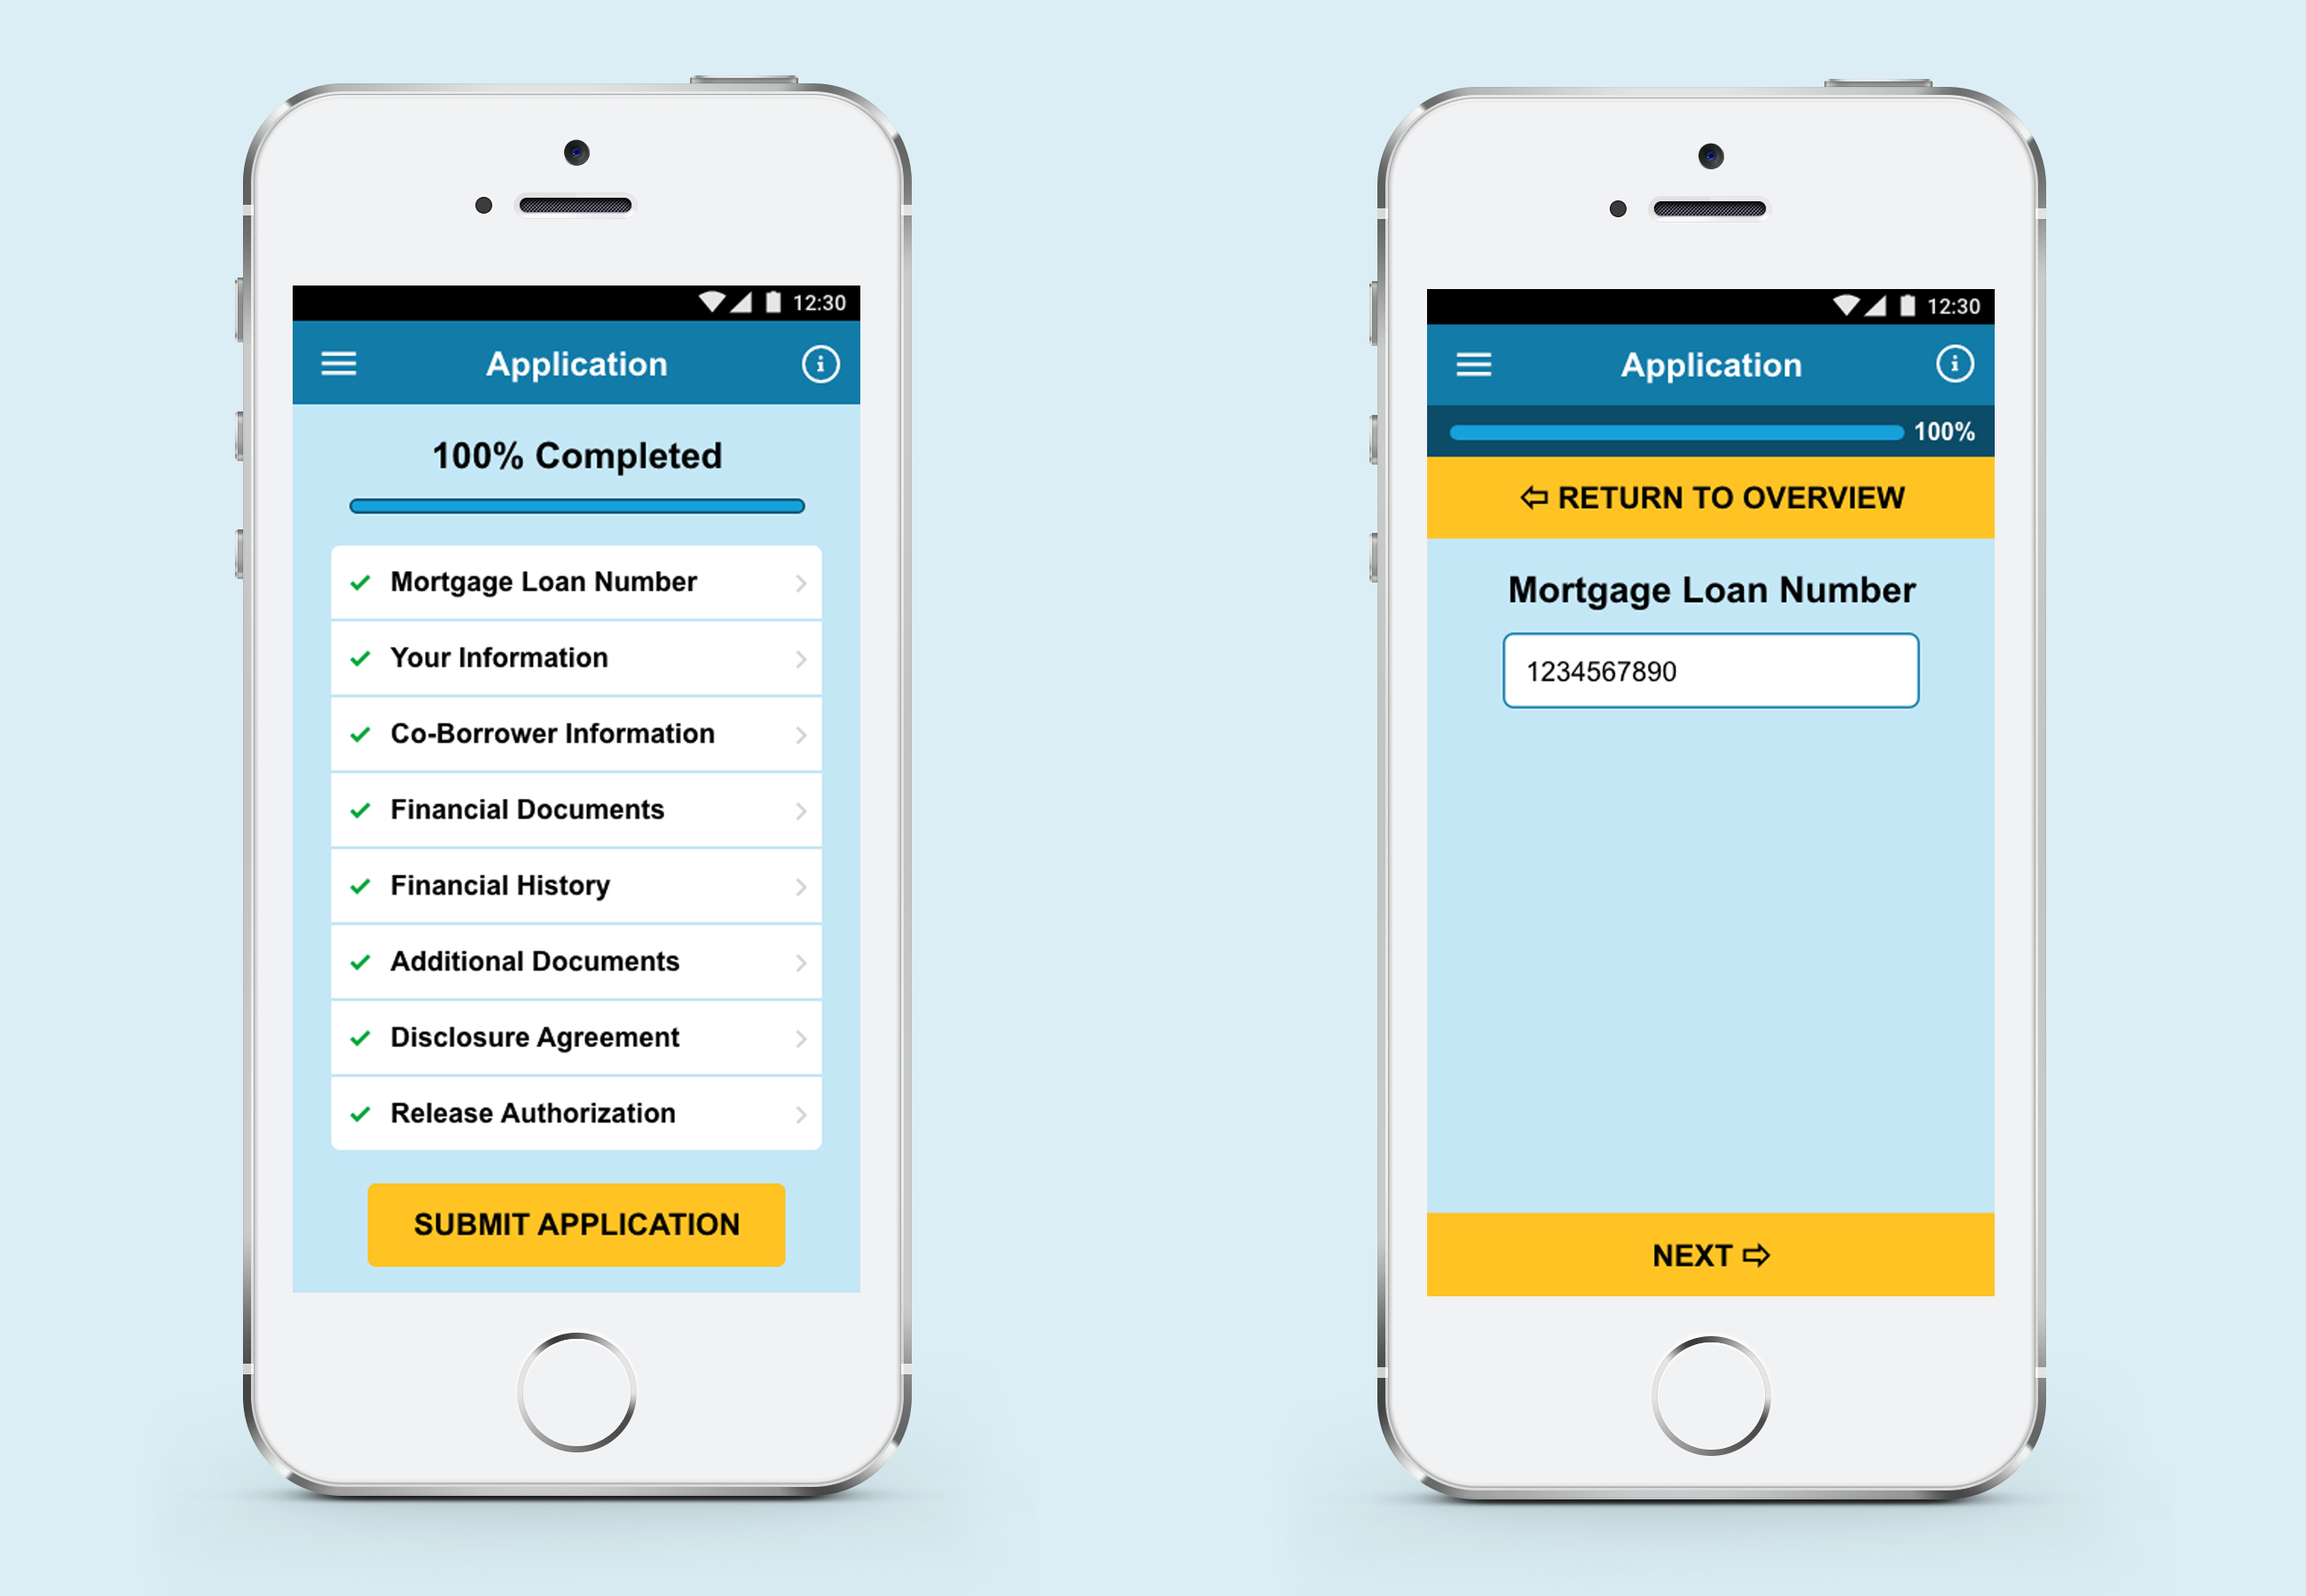
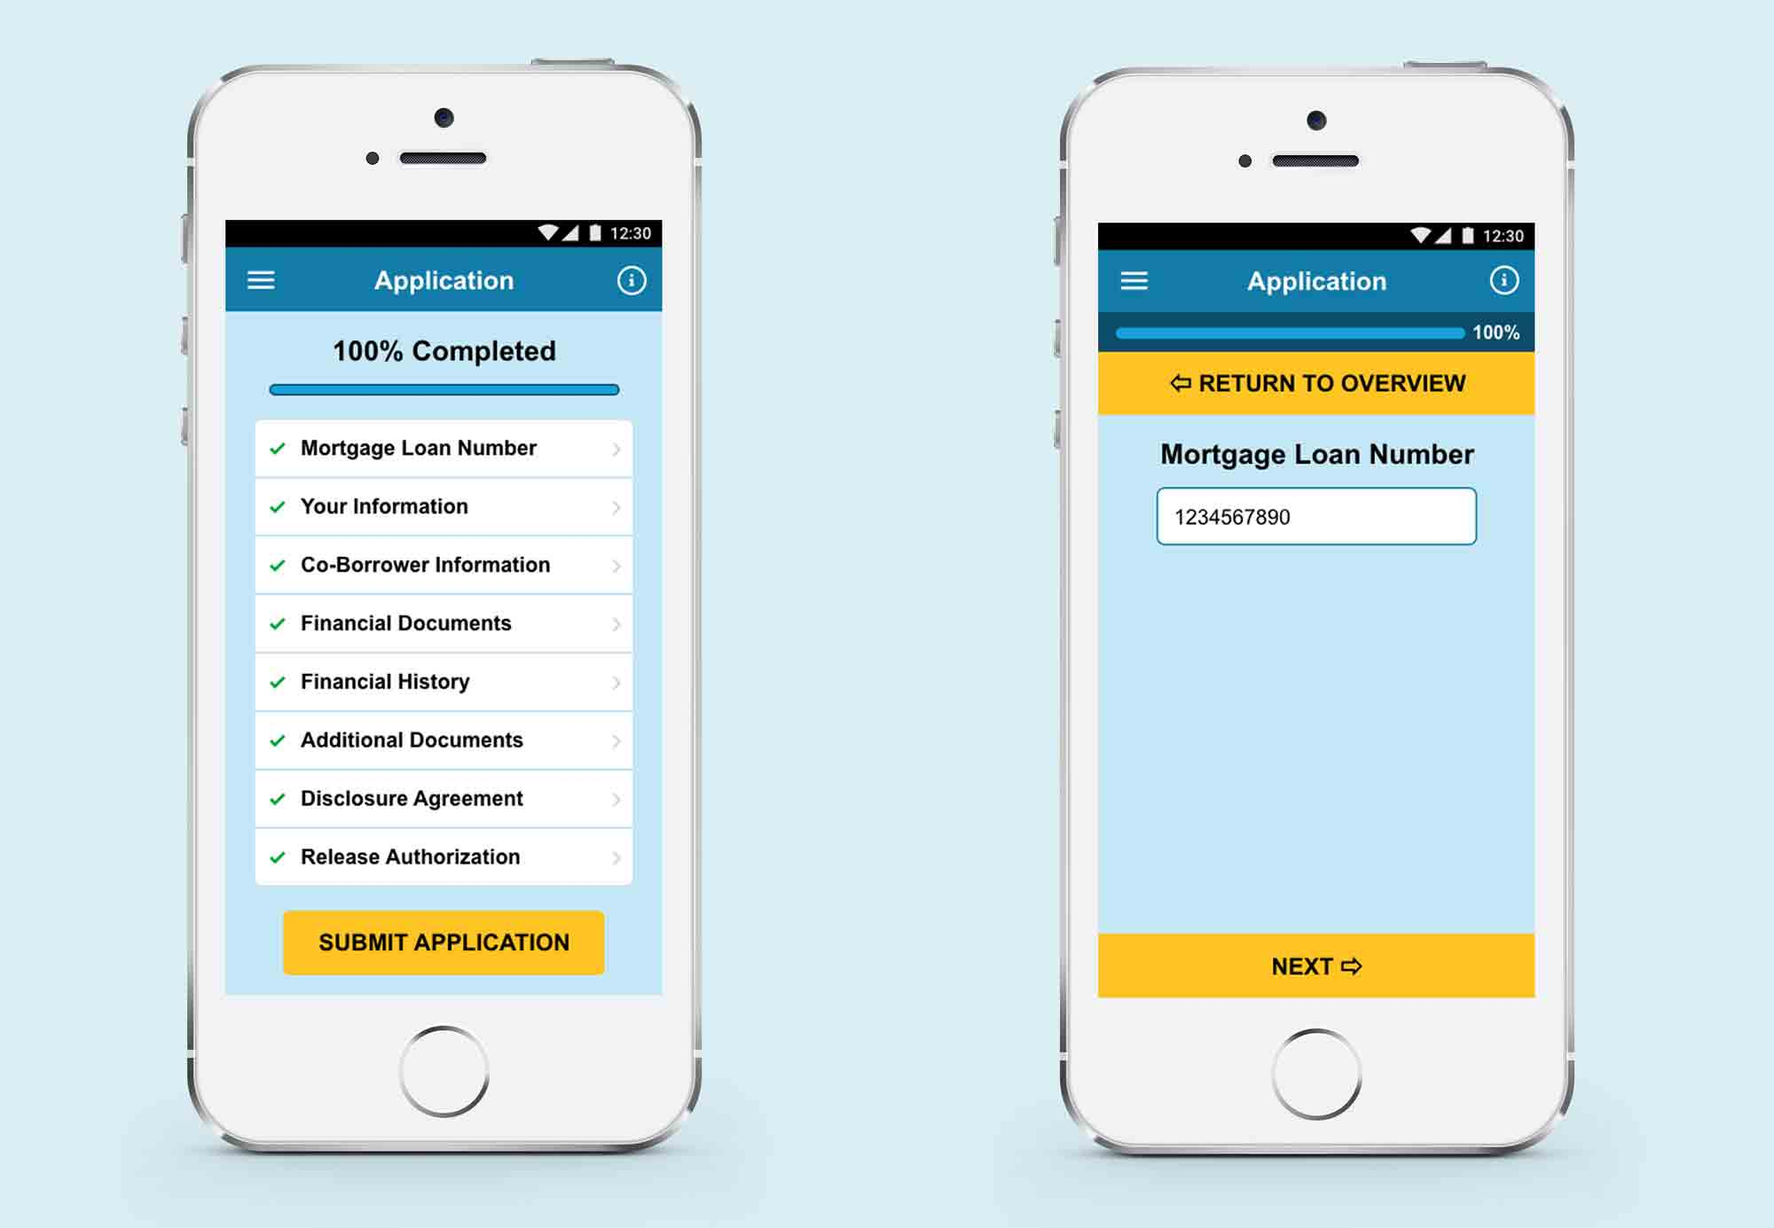
Optimized all the HopeNow images

diff --git a/projects/hopenow.html b/projects/hopenow.html
@@ -40,7 +40,7 @@
   <!-- Photos -->
   <div class="flex-container">
     <figure>
-      <img class="flex-item" src="../images/HopeNow/mockup.png" />
+      <img class="flex-item" src="../images/HopeNow/mockup.jpg" />
       <figcaption class="full-img">Overview of All Screens and Workflows</figcaption>
     </figure>
   </div>
@@ -51,7 +51,7 @@
   <!-- Photos -->
   <div class="flex-container">
     <figure>
-      <img class="flex-item" src="../images/HopeNow/colors.png" />
+      <img class="flex-item" src="../images/HopeNow/colors.jpg" />
       <figcaption class="full-img">Application Color Palette</figcaption>
     </figure>
   </div>
@@ -62,7 +62,7 @@
   <!-- Photos -->
   <div class="flex-container flex-two-item-row">
     <figure>
-      <img class="flex-item" src="../images/HopeNow/typography.png" />
+      <img class="flex-item" src="../images/HopeNow/typography.jpg" />
       <figcaption class="full-img">Application Font & Typography</figcaption>
     </figure>
   </div>
@@ -73,7 +73,7 @@
   <!-- Photos -->
   <div class="flex-container">
     <figure>
-      <img class="flex-item" src="../images/HopeNow/forms.png" />
+      <img class="flex-item" src="../images/HopeNow/forms.jpg" />
       <figcaption class="full-img">Application Elements</figcaption>
     </figure>
   </div>
